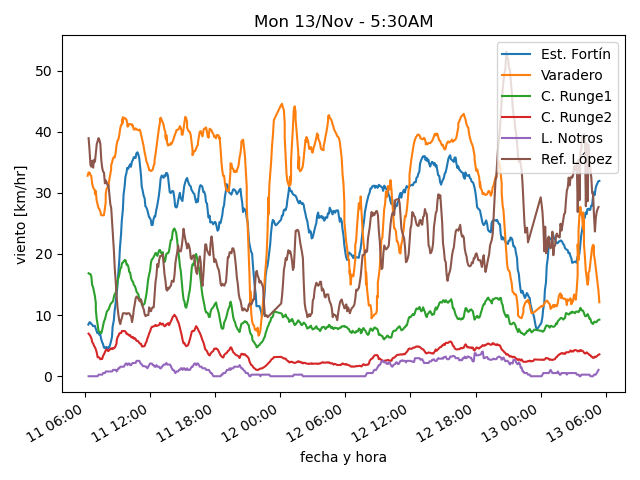
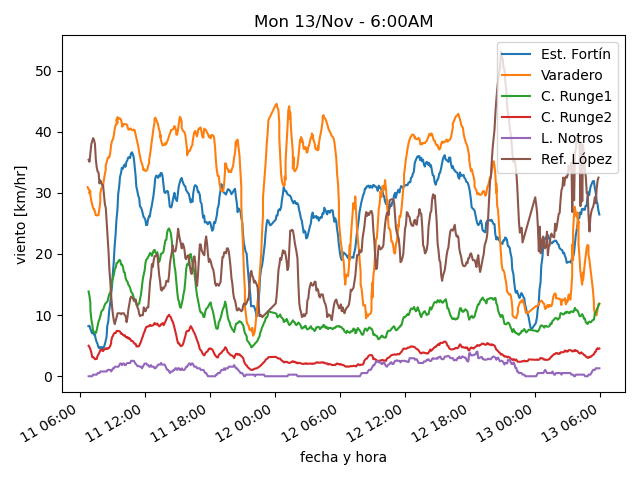
actualiza datos

diff --git a/estaciones/estacion6.html b/estaciones/estacion6.html
@@ -18,7 +18,7 @@
     </tr>
     <tr>
      <td class="stats_data">
-      5:20AM
+      5:50AM
      </td>
     </tr>
     <tr>
@@ -28,22 +28,22 @@
     </tr>
     <tr>
      <td class="stats_data">
-      -4.8⁰C
+      -4.6⁰C
      </td>
     </tr>
     <tr>
      <td class="stats_data">
-      89.0%
+      90.0%
      </td>
     </tr>
     <tr>
      <td class="stats_data">
-      1019.44hPa
+      1019.34hPa
      </td>
     </tr>
     <tr>
      <td class="stats_data">
-      12.9/30.6 km/hr SW
+      6.4/17.7 km/hr S
      </td>
     </tr>
     <tr>
@@ -58,7 +58,7 @@
     </tr>
     <tr>
      <td class="stats_data">
-      899.0 W/m²
+      900.0 W/m²
      </td>
     </tr>
    </tbody>

diff --git a/estaciones/estacion4.html b/estaciones/estacion4.html
@@ -18,22 +18,22 @@
     </tr>
     <tr>
      <td class="stats_data">
-      5:24AM
+      5:54AM
      </td>
     </tr>
     <tr>
      <td class="stats_data">
-      2.9⁰C
+      3.0⁰C
      </td>
     </tr>
     <tr>
      <td class="stats_data">
-      -2.1⁰C
+      -1.9⁰C
      </td>
     </tr>
     <tr>
      <td class="stats_data">
-      69.7%
+      70.6%
      </td>
     </tr>
     <tr>
@@ -43,7 +43,7 @@
     </tr>
     <tr>
      <td class="stats_data">
-      2.0/3.0 km/hr SW
+      2.8/4.0 km/hr SSW
      </td>
     </tr>
     <tr>
@@ -58,7 +58,7 @@
     </tr>
     <tr>
      <td class="stats_data">
-      0.0 W/m²
+      0.1 W/m²
      </td>
     </tr>
    </tbody>

diff --git a/estaciones/estacion3.html b/estaciones/estacion3.html
@@ -18,32 +18,32 @@
     </tr>
     <tr>
      <td class="stats_data">
-      5:24AM
+      5:54AM
      </td>
     </tr>
     <tr>
      <td class="stats_data">
-      2.9⁰C
+      3.1⁰C
      </td>
     </tr>
     <tr>
      <td class="stats_data">
-      -1.3⁰C
+      -0.9⁰C
      </td>
     </tr>
     <tr>
      <td class="stats_data">
-      74.0%
+      74.8%
      </td>
     </tr>
     <tr>
      <td class="stats_data">
-      1006.13hPa
+      1005.83hPa
      </td>
     </tr>
     <tr>
      <td class="stats_data">
-      5.6/8.0 km/hr WSW
+      7.4/11.0 km/hr WSW
      </td>
     </tr>
     <tr>

diff --git a/estaciones/estacion5.html b/estaciones/estacion5.html
@@ -18,32 +18,32 @@
     </tr>
     <tr>
      <td class="stats_data">
-      5:20AM
+      5:55AM
      </td>
     </tr>
     <tr>
      <td class="stats_data">
-      3.1⁰C
+      2.6⁰C
      </td>
     </tr>
     <tr>
      <td class="stats_data">
-      -1.2⁰C
+      -1.1⁰C
      </td>
     </tr>
     <tr>
      <td class="stats_data">
-      74.0%
+      76.0%
      </td>
     </tr>
     <tr>
      <td class="stats_data">
-      1018.83hPa
+      1019.07hPa
      </td>
     </tr>
     <tr>
      <td class="stats_data">
-      0.0/2.6 km/hr N
+      0.0/0.0 km/hr N
      </td>
     </tr>
     <tr>

diff --git a/estaciones/estacion2.html b/estaciones/estacion2.html
@@ -18,22 +18,22 @@
     </tr>
     <tr>
      <td class="stats_data">
-      5:24AM
+      5:54AM
      </td>
     </tr>
     <tr>
      <td class="stats_data">
-      4.2⁰C
+      4.5⁰C
      </td>
     </tr>
     <tr>
      <td class="stats_data">
-      -0.4⁰C
+      -0.2⁰C
      </td>
     </tr>
     <tr>
      <td class="stats_data">
-      72.0%
+      71.5%
      </td>
     </tr>
     <tr>
@@ -43,7 +43,7 @@
     </tr>
     <tr>
      <td class="stats_data">
-      8.9/13.7 km/hr SW
+      6.1/9.2 km/hr SW
      </td>
     </tr>
     <tr>

diff --git a/estaciones/estacion1.html b/estaciones/estacion1.html
@@ -18,7 +18,7 @@
     </tr>
     <tr>
      <td class="stats_data">
-      5:24AM
+      5:54AM
      </td>
     </tr>
     <tr>
@@ -33,7 +33,7 @@
     </tr>
     <tr>
      <td class="stats_data">
-      67.0%
+      67.3%
      </td>
     </tr>
     <tr>
@@ -43,7 +43,7 @@
     </tr>
     <tr>
      <td class="stats_data">
-      19.3/29.0 km/hr WSW
+      15.6/27.9 km/hr WNW
      </td>
     </tr>
     <tr>
